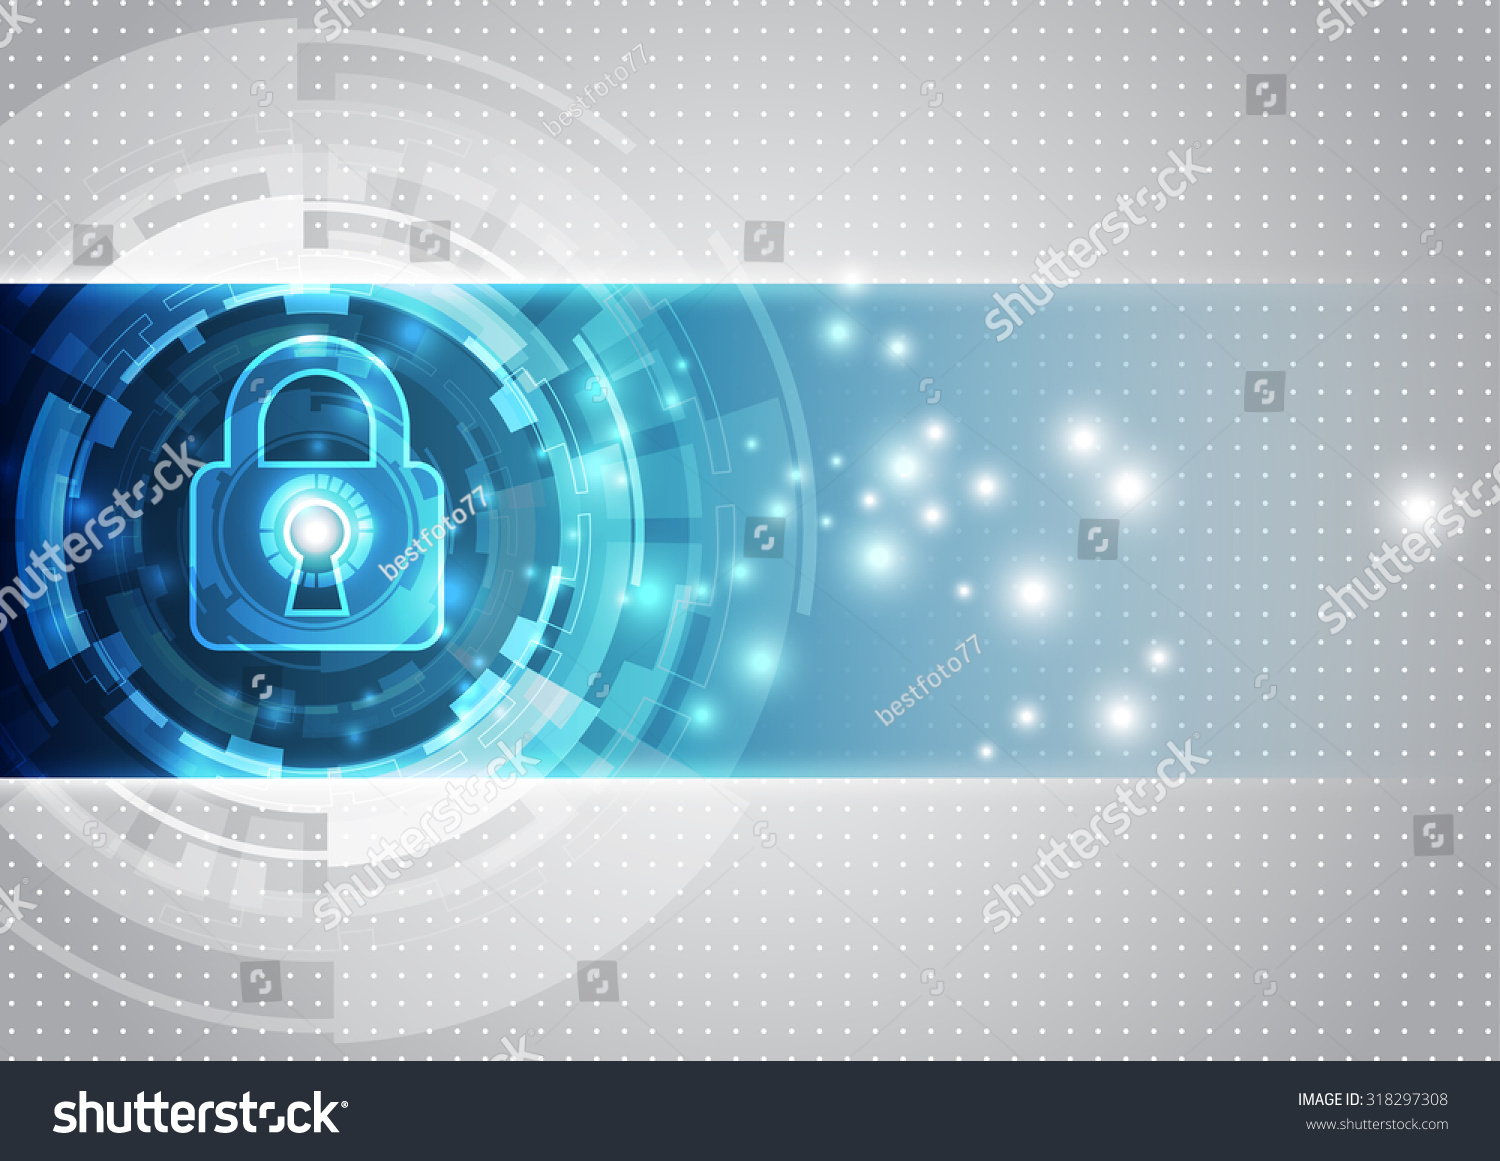
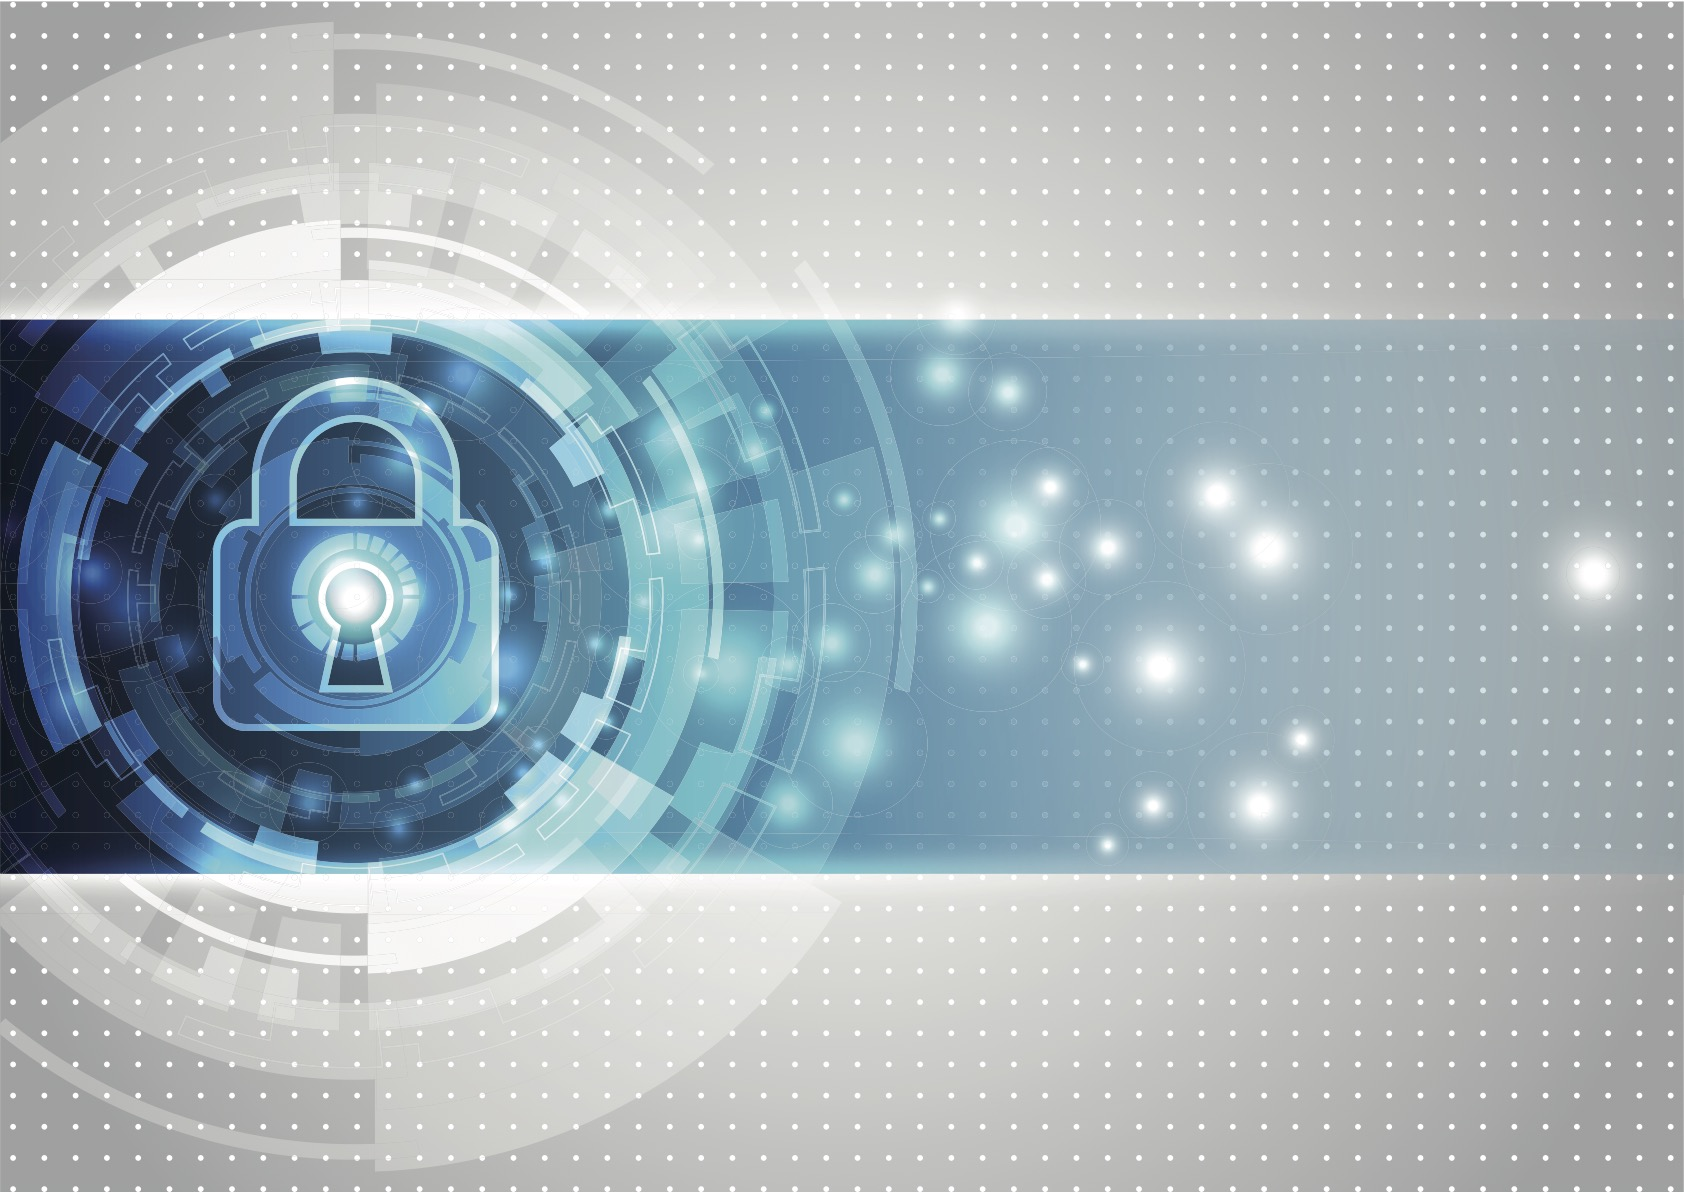
Updated large background image
Downloaded registered image so it no longer has a watermark

diff --git a/docs/JCJ_Alliance/index.html b/docs/JCJ_Alliance/index.html
@@ -106,7 +106,8 @@
         <div class="row">
           <div class="col-lg-4" data-aos="fade-right">
             <!--<img src="assets/img/framework-1500166463.jpg" class="img-fluid" alt="">-->
-            <img src="assets/img/lock-410047174.jpg" class="img-fluid" alt="">
+            <!--<img src="assets/img/lock-410047174.jpg" class="img-fluid" alt="">-->
+            <img src="assets/img/gears-cyber-security-722403334.jpg" class="img-fluid" alt="">
           </div>
           <div class="col-lg-8 pt-4 pt-lg-0 content" data-aos="fade-left">
             <h3>P. A. T. T. I Q</h3>
